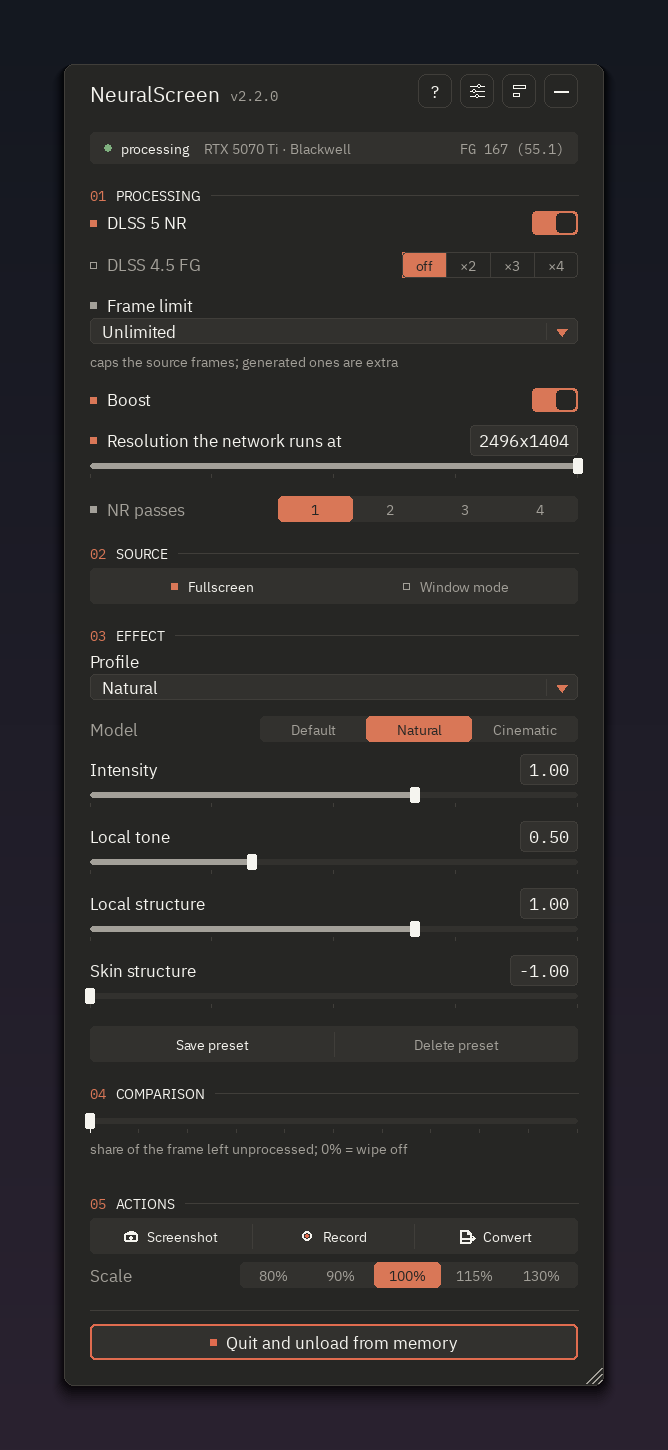
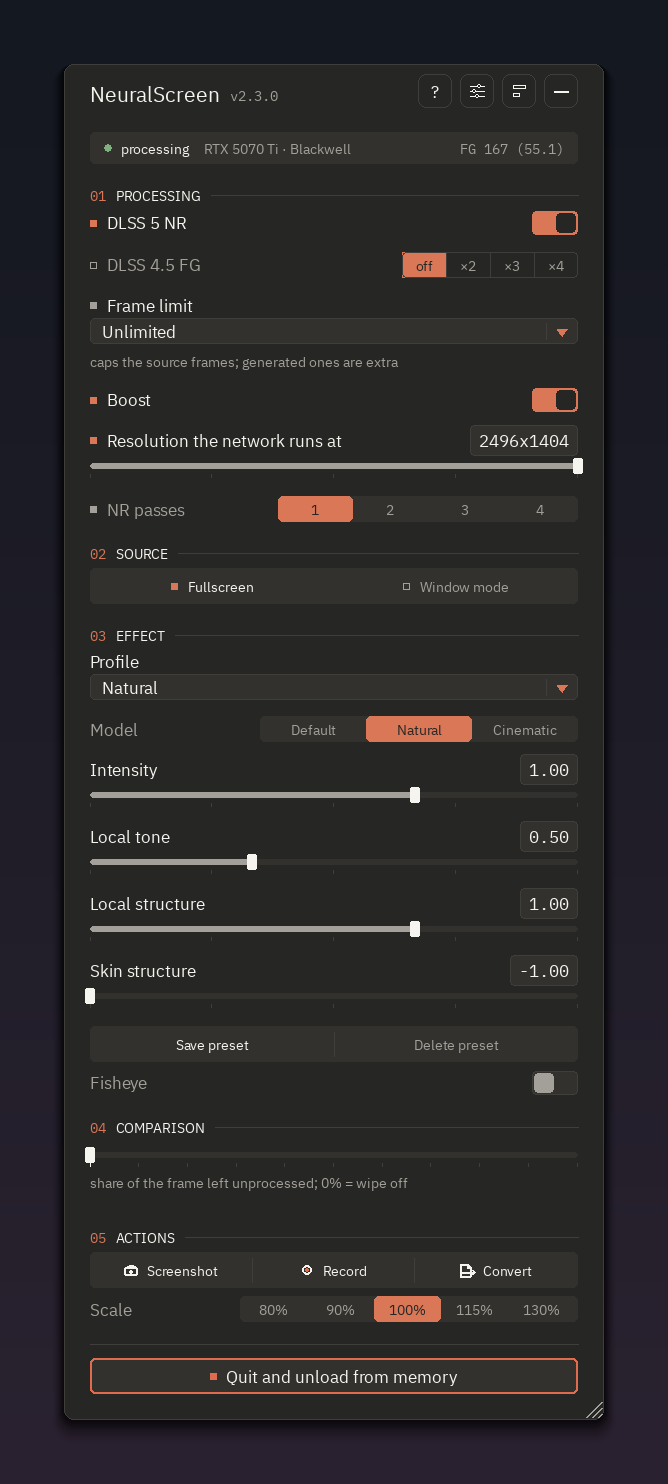
chore: v2.3.0 - version, rebuilt launcher, documentation screenshots
The version moves in the six lines RELEASING.md lists; the Unreleased
section of the changelog becomes v2.3.0.

diff --git a/app/settings_io.py b/app/settings_io.py
@@ -218,7 +218,7 @@ def _set_autostart(enabled: bool) -> bool:
 
 # The version shown in the menu header. Kept in sync with native/launcher.rc
 # (FileVersion/ProductVersion) and build_release_zip.py at release time.
-APP_VERSION = "2.2.0"
+APP_VERSION = "2.3.0"
 
 
 # The channel label: the header shows the version, the channel lives in the

diff --git a/build_release_zip.py b/build_release_zip.py
@@ -32,7 +32,7 @@ from typing import Iterable, Sequence
 
 
 BASE = Path(__file__).resolve().parent
-VERSION = "2.2.0"
+VERSION = "2.3.0"
 EXPECTED_TAG = f"v{VERSION}"
 TARGET_ARCHS = (
     "RTX 30/40/50 (sm_86/89/120 kernels, spoof 0x1B0; "

diff --git a/CHANGELOG.md b/CHANGELOG.md
@@ -30,7 +30,7 @@ Scope and honesty notes:
 
 ---
 
-## Unreleased
+## v2.3.0 - 2026-10-10 - Fisheye with webcam noise, autostart that waits for the desktop, and the 2.2.0 audit fixes
 
 * **Fisheye: a wide-lens look with the game's own field of view, and a little
   webcam noise.** A new switch on the main page, under the effect sliders,
